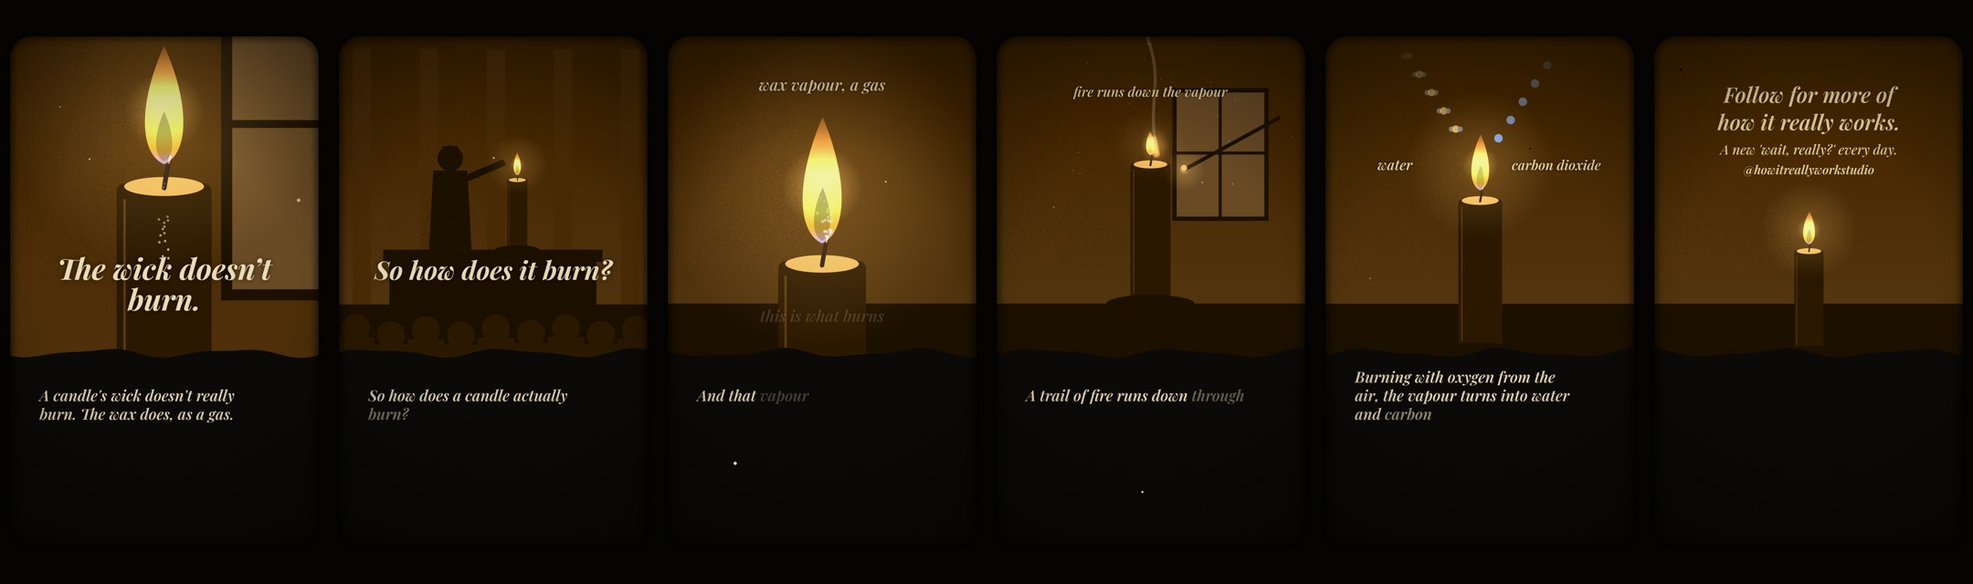
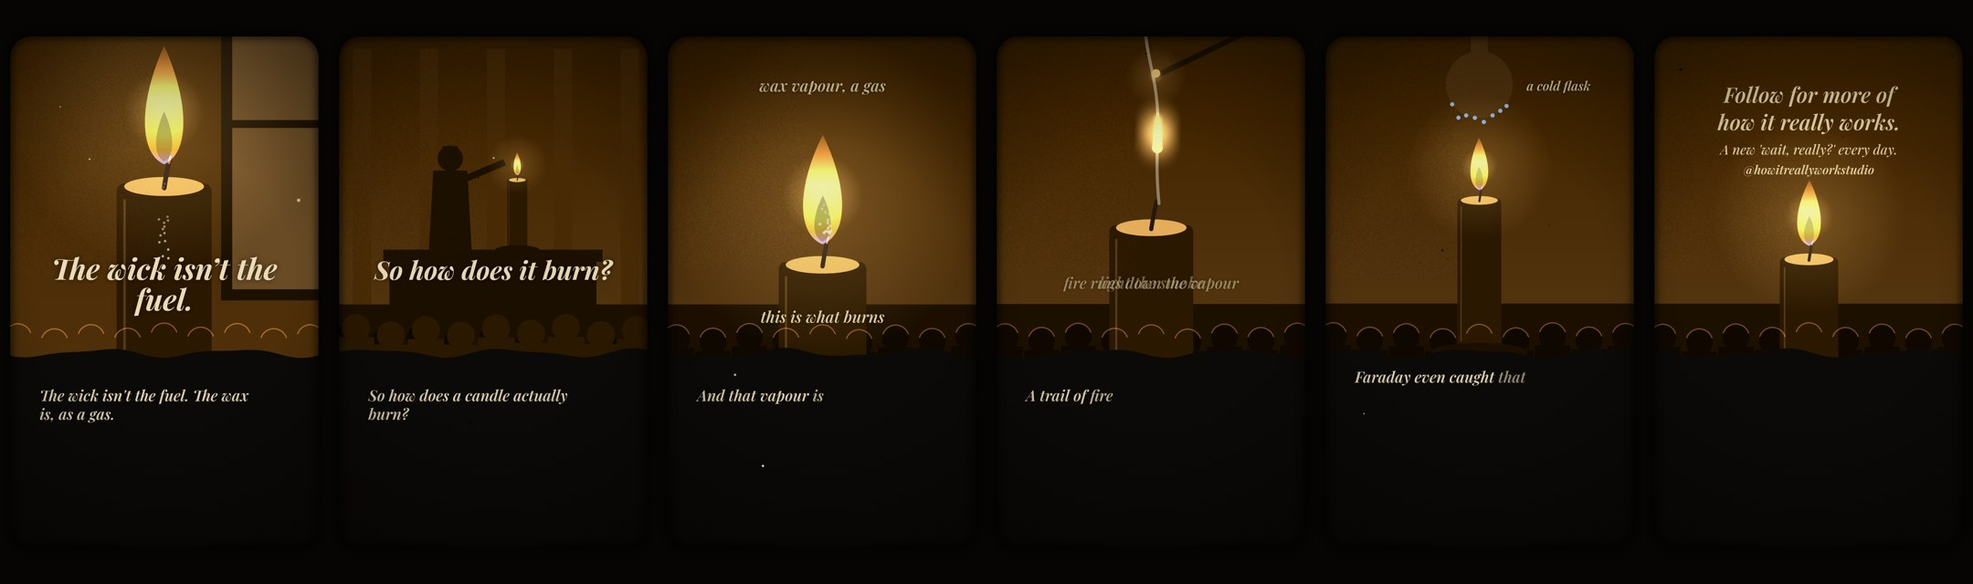
leafcolor + candle: review changes (new hooks, big-leaf frame 0, pigment strip, candle relight close-up at ~38-45 s as re-hook, audience row, bigger end flame)
Claude-Session: https://claude.ai/code/session_01BPYB3kfiSbE99jg4BSb2LU

diff --git a/reels/t_candle.js b/reels/t_candle.js
@@ -48,7 +48,10 @@ function room(t, o = {}) {
   const gr = g.createLinearGradient(0, 0, 0, 1200); gr.addColorStop(0, '#2a241e'); gr.addColorStop(1, '#4a4034'); g.fillStyle = gr; g.fillRect(-100, -100, W + 200, H + 200);
   if (o.window !== false) { g.fillStyle = '#5e5244'; g.fillRect(620, 300, 300, 420); F.stars(t, 30, 700); g.fillStyle = INK; g.fillRect(612, 292, 316, 14); g.fillRect(612, 714, 316, 14); g.fillRect(612, 292, 14, 436); g.fillRect(914, 292, 14, 436); g.fillRect(764, 292, 10, 436); g.fillRect(612, 500, 316, 10); }
   g.fillStyle = INK; g.fillRect(-100, 1000, W + 200, 400);
+  // the lecture-hall audience along the table front (silhouettes; rim-lit in the light pass)
+  for (let i = 0; i < 9; i++) { const hx = 60 + i * 120, hy = 1110 + (i % 2) * 14 + 3 * Math.sin(t * 2 + i); g.fillStyle = '#0c0a08'; g.beginPath(); g.arc(hx, hy, 44, 0, TAU); g.fill(); g.fillRect(hx - 58, hy + 30, 116, 120); }
 }
+function rims(t) { g.save(); g.globalCompositeOperation = 'lighter'; g.strokeStyle = 'rgba(255,170,90,.38)'; g.lineWidth = 4; for (let i = 0; i < 9; i++) { const hx = 60 + i * 120, hy = 1110 + (i % 2) * 14 + 3 * Math.sin(t * 2 + i); g.beginPath(); g.arc(hx, hy, 44, Math.PI * 1.1, Math.PI * 1.9); g.stroke(); } g.restore(); }
 function label(txt, x, y, k, size = 46) { if (k <= 0) return; g.save(); g.font = `italic 600 ${size}px "Playfair Display"`; g.textAlign = 'center'; g.fillStyle = CREAM; g.globalAlpha = clamp(k); g.shadowColor = 'rgba(0,0,0,.7)'; g.shadowBlur = 10; g.fillText(txt, x, y); g.restore(); }
 function leader(x0, y0, x1, y1, k) { if (k <= 0) return; g.save(); g.strokeStyle = 'rgba(240,220,168,.8)'; g.lineWidth = 2.5; g.globalAlpha = clamp(k); g.beginPath(); g.moveTo(x0, y0); g.lineTo(lerp(x0, x1, clamp(k)), lerp(y0, y1, clamp(k))); g.stroke(); g.restore(); }
 function bigCap(str, a, size = 100, y = 420) { if (a <= 0) return; g.save(); g.textAlign = 'center'; g.font = `italic 700 ${size}px "Playfair Display"`; g.globalAlpha = a; g.shadowColor = 'rgba(0,0,0,.6)'; g.shadowBlur = 18; g.fillStyle = '#f6e6bf';
@@ -56,8 +59,8 @@ function bigCap(str, a, size = 100, y = 420) { if (a <= 0) return; g.save(); g.t
 function arrowUp(x, y0, y1, k, col = 'rgba(255,214,140,.95)') { if (k <= 0) return; const yy = lerp(y0, y1, clamp(k)); g.save(); g.strokeStyle = col; g.fillStyle = col; g.lineWidth = 6; g.beginPath(); g.moveTo(x, y0); g.lineTo(x, yy + 10); g.stroke(); g.beginPath(); g.moveTo(x - 16, yy + 18); g.lineTo(x + 16, yy + 18); g.lineTo(x, yy - 8); g.fill(); g.restore(); }
 
 // ---------- shots ----------
-const SH = [[0, s(1) + 1.0, 'hook'], [s(1) + 1.0, s(3) - .15, 'faraday'], [s(3) - .15, s(5) - .15, 'melt'], [s(5) - .15, s(7) - .15, 'vapour'], [s(7) - .15, s(9) - .15, 'relight'],
-  [s(9) - .15, s(11) - .15, 'zones'], [s(11) - .15, s(13) - .15, 'water'], [s(13) - .15, s(14) - .15, 'pump'], [s(14) - .15, s(15) - .15, 'question'], [s(15) - .15, TL.total + 1, 'end']];
+const SH = [[0, s(1) + 1.0, 'hook'], [s(1) + 1.0, s(3) - .15, 'faraday'], [s(3) - .15, s(5) - .15, 'melt'], [s(5) - .15, s(7) - .15, 'vapour'], [s(7) - .15, s(9) - .15, 'zones'],
+  [s(9) - .15, s(11) - .15, 'relight'], [s(11) - .15, s(13) - .15, 'water'], [s(13) - .15, s(14) - .15, 'pump'], [s(14) - .15, s(15) - .15, 'question'], [s(15) - .15, TL.total + 1, 'end']];
 const shotAt = t => SH.find(x => t >= x[0] && t < x[1]) || SH[SH.length - 1];
 
 const SCN = {
@@ -102,23 +105,25 @@ const SCN = {
       const bk = ss(R(t, s(6) + .3, .6)); label('this is what burns', 540, 1060, bk, 52); };
   },
   relight(t) { // blow it out, light the smoke: a trail of fire runs down and relights the wick
-    room(t); const C = candle(540, 1000, 1.1);
-    const out = ss(R(t, s(7) + .5, .3)), m = ss(R(t, s(7) + 1.8, 1.2)), run = ss(R(t, s(8) + .2, 1.2)), rel = ss(R(t, s(8) + 1.3, .4));
-    // a taper (long match) coming in from the right
-    const tx = lerp(1100, 650, m), ty = 560; g.save(); g.translate(tx, ty); g.rotate(-.5); g.fillStyle = INK; g.fillRect(0, -6, 360, 12); g.restore();
+    room(t, { window: false }); const C = candle(540, 1660, 2.3, { h: 400 });   // big close-up: the wow
+    const out = ss(R(t, s(9) + 1.0, .3)), m = ss(R(t, s(9) + 2.0, 1.0)), run = ss(R(t, s(10) + .1, 1.4)), rel = ss(R(t, s(10) + 1.4, .4));
+    const sx = (u) => smokeAt(C.x + 18, C.top - 70, t, u, 700), [px, py] = sx(.6);
+    // a taper (long match) coming in from the right to the smoke, high above the wick
+    const tx = lerp(1150, px + 10, m), ty = py; g.save(); g.translate(tx, ty); g.rotate(-.45); g.fillStyle = INK; g.fillRect(0, -9, 420, 18); g.restore();
     return () => { flame(C, t, { k: Math.max(1 - out, rel) });
-      const sa = out * (1 - rel); smoke(C.x + 8, C.top - 30, t, sa, 520);
-      if (m > 0) { F.glow(tx, ty, 14, .9); F.circ(tx, ty - 6, 10, '#ffd27a'); }
-      if (run > 0 && rel < 1) for (let i = 0; i < 6; i++) { const u = clamp(1 - run + i * .02); const [fx, fy] = smokeAt(C.x + 8, C.top - 30, t, lerp(.55, 0, run) + i * .02, 520); F.circ(fx, fy, 12 - i, '#ffb050', 1 - rel); F.glow(fx, fy, 10, (1 - rel) * .8); }
-      label('blow it out', 380, 320, ss(R(t, s(7) + .3, .5)) * (1 - m));
-      label('light the smoke', 380, 320, m * (1 - run));
-      label('fire runs down the vapour', 540, 320, run, 44); };
+      const sa = out * (1 - rel); smoke(C.x + 18, C.top - 70, t, sa, 700);
+      if (m > 0) { F.glow(tx, ty, 20, .9); F.circ(tx, ty - 8, 14, '#ffd27a'); }
+      if (run > 0 && rel < 1) for (let i = 0; i < 8; i++) { const [fx, fy] = sx(clamp(lerp(.6, 0, run) + i * .02)); F.circ(fx, fy, 18 - i * 1.5, '#ffb050', 1 - rel); F.glow(fx, fy, 16, (1 - rel) * .9); }
+      label('watch this', 540, 950, ss(R(t, s(9) + .1, .4)) * (1 - ss(R(t, s(9) + .8, .2))), 56);
+      label('blow it out', 540, 950, out * (1 - ss(R(t, s(9) + 1.9, .25))), 52);
+      label('light the smoke', 540, 950, ss(R(t, s(9) + 2.2, .3)) * (1 - ss(R(t, s(10) - .25, .25))), 52);
+      label('fire runs down the vapour', 540, 950, ss(R(t, s(10) + .1, .3)), 50); };
   },
   zones(t) {  // inside the flame: a dark core of unburnt vapour; the yellow glow is solid carbon specks so hot they shine
     room(t, { window: false }); const C = candle(540, 1980, 3.0, { h: 340 });
     return () => { flame(C, t, { k: 1.2, zones: 1, cut: 1 });
-      const ck = ss(R(t, s(9) + .4, .6)); label('dark core', 300, 700, ck); leader(380, 690, 520, C.top - 140, ck); label('unburnt vapour', 300, 760, ss(R(t, s(9) + 1.6, .6)), 40);
-      const yk = ss(R(t, s(10) + .6, .6)); if (yk > 0) for (let i = 0; i < 40; i++) { const u = (t * .5 + hash(i * 5.3)) % 1, a = hash(i * 2.1) * TAU, rr = 40 + 50 * hash(i * 7); const x = 540 + Math.cos(a) * rr * .7, y = C.top - 300 + Math.sin(a) * rr * 1.6 - u * 40; F.circ(x, y, 3 + 2 * hash(i), '#fff2c0', yk * (.4 + .6 * hash(i + Math.floor(t * 8)))); }
+      const ck = ss(R(t, s(7) + .4, .6)); label('dark core', 300, 700, ck); leader(380, 690, 520, C.top - 140, ck); label('unburnt vapour', 300, 760, ss(R(t, s(7) + 1.6, .6)), 40);
+      const yk = ss(R(t, s(8) + .6, .6)); if (yk > 0) for (let i = 0; i < 40; i++) { const u = (t * .5 + hash(i * 5.3)) % 1, a = hash(i * 2.1) * TAU, rr = 40 + 50 * hash(i * 7); const x = 540 + Math.cos(a) * rr * .7, y = C.top - 300 + Math.sin(a) * rr * 1.6 - u * 40; F.circ(x, y, 3 + 2 * hash(i), '#fff2c0', yk * (.4 + .6 * hash(i + Math.floor(t * 8)))); }
       label('glowing carbon specks', 540, 300, yk, 50); };
   },
   water(t) {  // the products: water and carbon dioxide; Faraday catches the water on a cold vessel above the flame
@@ -146,7 +151,7 @@ const SCN = {
     room(t); const C = candle(540, 1000, 1.1);
     return () => { flame(C, t, { k: 0 }); smoke(C.x + 8, C.top - 30, t, .9, 520); bigCap('Through the smoke?', ss(R(t, s(14) + .2, .5)), 80, 360); label('yes', 380, 560, ss(R(t, s(14) + 1.2, .4)), 64); label('no', 700, 560, ss(R(t, s(14) + 1.4, .4)), 64); };
   },
-  end(t) { room(t, { window: false }); const C = candle(540, 1160, .8);
+  end(t) { room(t, { window: false }); const C = candle(540, 1520, 1.6, { h: 420 });
     return () => { flame(C, t, { k: 1 }); const k = ss(R(t, s(15) - .1, .7));
       g.save(); g.textAlign = 'center'; g.font = 'italic 600 70px "Playfair Display"'; g.fillStyle = CREAM; g.globalAlpha = k; g.fillText('Follow for more of', 540, 340); g.globalAlpha = ss(R(t, s(15) + .5, .7)); g.fillText('how it really works.', 540, 430);
       g.font = 'italic 500 44px "Playfair Display"'; g.globalAlpha = ss(R(t, s(15) + 1.0, .7)); g.fillText("A new 'wait, really?' every day.", 540, 510); g.font = 'italic 600 40px "Playfair Display"'; g.globalAlpha = ss(R(t, s(15) + 1.3, .7)); g.fillText('@howitreallyworkstudio', 540, 575); g.restore(); };
@@ -158,10 +163,10 @@ function scene(t) {
   const [a, b, name] = shotAt(t), [wx, wy] = F.weave(t);
   g.save(); g.translate(wx, wy); const glowPass = SCN[name](t); g.restore();
   F.grade(0);
-  g.save(); g.translate(wx, wy); glowPass(); g.restore();
+  g.save(); g.translate(wx, wy); glowPass(); if (name !== 'faraday') rims(t); g.restore();
   const fi = name === 'hook' ? 1 : ss(R(t, a, .3)), fo = 1 - ss(R(t, b - .3, .3)), dip = Math.min(fi, fo); if (dip < 1) { g.fillStyle = `rgba(0,0,0,${1 - dip})`; g.fillRect(0, 0, W, H); }
   // burned-in hook line (top third), then the question
-  if (t < s(2) - .2) { const one = t < s(1) - .05; bigCap(one ? 'The wick doesn’t burn.' : 'So how does it burn?', one ? 1 : ss(R(t, s(1) - .05, .25)), one ? 96 : 84, 920); }
+  if (t < s(2) - .2) { const one = t < s(1) - .05; bigCap(one ? 'The wick isn’t the fuel.' : 'So how does it burn?', one ? 1 : ss(R(t, s(1) - .05, .25)), one ? 96 : 84, 920); }
   // foreground wavy black band + italic caption written in word by word (inside y 1180-1400)
   F.band(t, 1160, { amp: 12 });
   let ci = 0; PH.forEach((p, k) => { if (t >= p.start - .1) ci = k; });

diff --git a/reels/t_leafcolor.js b/reels/t_leafcolor.js
@@ -85,18 +85,20 @@ function pigments(cx, cy, R, st, t, seed = 1) {
 
 // ---------------- scenes ----------------
 const S = [];
-// A (p0-p1): ink mountains under a pale moon, a maple branch in red and gold; the question in a vertical column; the first leaves fall
+// A (p0-p1): frame 0 is one big leaf inside an ensō, green already draining to reveal gold; at the question the ink landscape comes in:
+// mountains under a pale moon, a maple branch in red and gold, the question in a vertical column, the first leaves falling
 S.push([0, T(2), t => {
-  land(t, { mx: 190, my: 760, mr: 95, o: .25 });
-  const st = { green: 0, red: .85, brown: 0 };
-  branch(t, st, { y: 300 });
-  falling(t, 7, { green: 0, red: .8, brown: 0 }, { a: ss(seg(t, r(1, -.3), r(1, .6))), y0: 260 });
-  // the hidden yellow: an ensō inset where the green sheet slides off a leaf (hook line, 1.2-3 s)
-  const k = seg(t, .2, 1.0), sl = ss(seg(t, 1.4, 2.6));
-  enso(g, 760, 920, 160, k, { seed: 2 });
-  if (k > .4) { g.save(); g.globalAlpha *= seg(k, .4, 1); leaf(760, 925, 105, .1, { green: 1 - sl, red: 0, brown: 0 }); g.restore(); }
-  serif(g, 'yellow, all along', 700, 715, { size: 54, w: 700, a: seg(t, 2.4, 3.0) * (1 - seg(t, T(1) + 1.2, T(1) + 1.6)) });
-  column(g, ['WHY DO', 'LEAVES', 'TURN?'], 400, 320, seg(t, T(1) - .1, T(1) + 1.0), { size: 84, gap: 1.05, seal: 'fall' });
+  const k = ss(seg(t, T(1) - .2, T(1) + .7));
+  land(t, { mx: 190, my: 760, mr: 95, o: .25, birdsA: k });
+  if (k > 0) { g.save(); g.globalAlpha *= k; branch(t, { green: 0, red: .85, brown: 0 }, { y: 300 });
+    falling(t, 7, { green: 0, red: .8, brown: 0 }, { a: ss(seg(t, T(1), T(1) + .8)), y0: 260 });
+    column(g, ['WHY DO', 'LEAVES', 'TURN?'], 400, 320, seg(t, T(1) + .1, T(1) + 1.1), { size: 84, gap: 1.05, seal: 'fall' }); g.restore(); }
+  if (k < 1) { g.save(); g.globalAlpha *= 1 - k; g.drawImage(paper(), 0, 0);
+    const gr = 1 - ss(seg(t, .15, 2.6));
+    enso(g, 540, 770, 390, 1, { lw: 20, seed: 4 });
+    leaf(540 + 6 * Math.sin(t * 1.3), 795, 290, .04 * Math.sin(t * .9), { green: gr, red: 0, brown: 0 });
+    serif(g, 'gold, all along', 540, 300, { size: 64, w: 700, a: seg(t, 1.6, 2.0) });
+    g.restore(); }
 }]);
 // B (p2-p5): one big leaf: green all summer (sunlight -> food), nights lengthen, chlorophyll breaks down, gold revealed
 S.push([T(2) - .5, T(6) - .1, t => {
@@ -147,7 +149,7 @@ S.push([T(6) - .5, T(11) - .1, t => {
   // p9: sunshine + sugar -> red
   const sk = seg(t, T(9), r(9, .8)) * (1 - seg(t, E(10) - .3, E(10) + .2));
   sun(170, 420, 48, sk); rays(170, 420, 1, 62, 300, sk);
-  serif(g, 'sun + sugar = red', 560, 300, { size: 58, w: 700, a: seg(t, r(9, 1.4), r(9, 2.0)) * (1 - seg(t, T(10) - .2, T(10) + .2)) });
+  serif(g, 'sun + sugar = red', 560, 300, { size: 58, w: 700, a: seg(t, r(9, .5), r(9, .8)) * (1 - seg(t, T(10) - .2, T(10) + .2)) });
   // p10: like a sunscreen: rays stop at the red leaf (dashed rays end at the edge)
   const sc = seg(t, T(10), r(10, .8));
   if (sc > 0) { g.save(); g.globalAlpha *= sc; g.strokeStyle = 'rgba(217,118,62,.9)'; g.lineWidth = 6; g.setLineDash([18, 12]); [[-60], [0], [60]].forEach(([dx], i) => { g.beginPath(); g.moveTo(230 + dx, 470); g.lineTo(400 + dx * .5, 570 + i * 20); g.stroke(); }); g.restore();
@@ -174,7 +176,7 @@ S.push([T(12) - .5, T(14) - .1, t => {
   leaf(540 + 60 * Math.sin(drop * 5) * drop, 600 + drop * 520, 170 * (1 - .4 * drop), drop * 2.5, st, { stem: .6 });
   serif(g, 'tannins', 540, 300, { size: 66, w: 700, a: seg(t, r(12, .5), r(12, 1.1)) * (1 - seg(t, T(13) - .2, T(13) + .2)) });
   serif(g, 'brown comes last', 540, 970, { size: 50, w: 700, a: seg(t, r(12, 1.8), r(12, 2.4)) * (1 - seg(t, T(13) - .2, T(13) + .2)) });
-  serif(g, 'the leaf lets go', 540, 300, { size: 62, w: 700, a: seg(t, r(13, 1.2), r(13, 1.8)) });
+  serif(g, 'the leaf lets go', 540, 300, { size: 62, w: 700, a: seg(t, r(13, .7), r(13, 1.0)) });
   falling(t, 6, { green: 0, red: .5, brown: .6 }, { a: seg(t, T(13), r(13, 1)), y0: 280 });
 }]);
 // F (p14): payoff: three ensō, green leaving / gold revealed / red made
@@ -210,7 +212,7 @@ function subtitle(cap, a) {
   const toks = []; parse(cap).forEach(p => p.t.split(/\s+/).filter(Boolean).forEach(w => toks.push({ w, b: p.b })));
   const m = tk => { g.font = `italic ${tk.b ? 700 : 500} ${SZ}px "Cormorant Garamond"`; return g.measureText(tk.w + ' ').width; };
   const lines = [[]]; let cw = 0; for (const tk of toks) { const w = m(tk); if (cw + w > maxW && lines[lines.length - 1].length) { lines.push([]); cw = 0; } lines[lines.length - 1].push(tk); cw += w; }
-  const lh = 60, top = 1290 - (lines.length - 1) * lh / 2;
+  const lh = 60, top = 1262 - (lines.length - 1) * lh / 2;
   g.fillStyle = 'rgba(239,232,216,.78)'; g.beginPath(); g.roundRect(150, top - 50, 780, (lines.length - 1) * lh + 100, 30); g.fill();
   lines.forEach((ln, i) => { const tw = ln.reduce((s, tk) => s + m(tk), 0); let x = W / 2 - tw / 2; if (i === 0) { g.fillStyle = VERM; g.fillRect(x - 30, top - 7, 13, 13); }
     for (const tk of ln) { g.font = `italic ${tk.b ? 700 : 500} ${SZ}px "Cormorant Garamond"`; g.lineJoin = 'round'; g.strokeStyle = 'rgba(239,232,216,.92)'; g.lineWidth = 10; g.strokeText(tk.w, x, top + i * lh);
@@ -222,8 +224,20 @@ function sub(t) {
   if (cur === PH.length - 1) return; const p = PH[cur], nx = PH[cur + 1].start, a = (cur === 0 ? 1 : seg(t, p.start - .05, p.start + .15)) * (1 - seg(t, nx - .25, nx - .05));
   subtitle(p.cap, a);
 }
+// pigment strip (the three layers' levels across the whole reel), under the caption in y 1395-1435
+function pigStrip(t) {
+  const hook = t < T(2) - .3;
+  const chl = hook ? 1 - ss(seg(t, .15, 2.6)) : 1 - ss(seg(t, T(3) + .5, T(4) + 1)) + ss(seg(t, T(14) + .1, T(14) + 1.2)) * 0;
+  const gold = 1 - .6 * ss(seg(t, T(12), T(13))) + .6 * ss(seg(t, T(14) - .3, T(14) + .3));
+  const red = hook ? 0 : ss(seg(t, T(7) + .8, T(9) + 2)) * (1 - .7 * ss(seg(t, T(12), T(13)))) + .7 * ss(seg(t, T(14) - .3, T(14) + .3)) * ss(seg(t, T(7), T(9)));
+  g.save(); g.fillStyle = 'rgba(239,232,216,.85)'; g.strokeStyle = ink(.6); g.lineWidth = 2; g.beginPath(); g.roundRect(160, 1392, 760, 46, 22); g.fill(); g.stroke();
+  [['green', GREEN, chl], ['gold', GOLD, gold], ['red', RED, red]].forEach(([lab, col, v], i) => { const x = 190 + i * 245;
+    g.font = 'italic 700 30px "Cormorant Garamond"'; g.textBaseline = 'middle'; g.textAlign = 'left'; g.fillStyle = ink(.85); g.fillText(lab, x, 1415);
+    g.fillStyle = 'rgba(30,28,30,.12)'; g.fillRect(x + 78, 1407, 130, 16); g.fillStyle = col; g.fillRect(x + 78, 1407, 130 * clamp(v), 16); });
+  g.restore();
+}
 window.DUR = TL.total;
-window.seek = t => { scene(t); sub(t); const f = Math.min(1, (TL.total - t) / .35); if (f < 1) { g.save(); g.globalAlpha = (1 - f) * .3; g.fillStyle = '#2a2622'; g.fillRect(0, 0, W, H); g.restore(); } };
+window.seek = t => { scene(t); sub(t); pigStrip(t); const f = Math.min(1, (TL.total - t) / .35); if (f < 1) { g.save(); g.globalAlpha = (1 - f) * .3; g.fillStyle = '#2a2622'; g.fillRect(0, 0, W, H); g.restore(); } };
 window.thumb = () => { const t = 3; land(t, { mx: 280, my: 700, mr: 130, o: .3, birdsA: 0 }); branch(t, { green: 0, red: .9, brown: 0 }, { y: 760, s: 1.25 });
   leaf(300, 1150, 170, .1, { green: .35, red: 0, brown: 0 });
   serif(g, 'WHY DO LEAVES', 540, 380, { size: 104, w: 700, ls: 3 }); serif(g, 'CHANGE COLOR?', 540, 500, { size: 104, w: 700, ls: 3 }); sealMark(g, 900, 590, 64, 'fall'); };

diff --git a/reels/tl_leafcolor.js b/reels/tl_leafcolor.js
@@ -1,1 +1,1 @@
-window.TL={"total": 71.302, "p": [{"i": 0, "cap": "Those red and gold leaves? The **yellow** was hiding in there **all summer.**", "start": 0.35, "end": 4.11}, {"i": 1, "cap": "So **why do leaves change color** in the fall?", "start": 4.81, "end": 6.802}, {"i": 2, "cap": "All summer, leaves are full of **chlorophyll,** the green pigment that turns sunlight into food.", "start": 7.502, "end": 12.612}, {"i": 3, "cap": "But as **nights get longer,** trees stop making it, and the **green breaks down.**", "start": 12.992, "end": 17.084}, {"i": 4, "cap": "Underneath are yellow and orange pigments called **carotenoids.** They were there **all along.**", "start": 17.784, "end": 22.576}, {"i": 5, "cap": "The green was just **covering them up.**", "start": 22.956, "end": 24.6}, {"i": 6, "cap": "Here's the twist: the **reds** weren't hiding.", "start": 25.3, "end": 27.459}, {"i": 7, "cap": "Reds and purples come from **anthocyanins,** and most are **made fresh** in the fall.", "start": 28.159, "end": 32.51}, {"i": 8, "cap": "A **cork-like layer** grows across the leaf stem, and **sugar** gets trapped inside the leaf.", "start": 32.89, "end": 37.615}, {"i": 9, "cap": "Bright **sunshine** and that trapped **sugar** help make the red.", "start": 37.995, "end": 40.881}, {"i": 10, "cap": "Scientists think it may work like a **sunscreen** for the fading leaf.", "start": 41.261, "end": 44.774}, {"i": 11, "cap": "That's why weather matters. **Warm, sunny days** and **cool nights** bring the brightest reds.", "start": 45.474, "end": 50.516}, {"i": 12, "cap": "**Brown** comes last: **tannins,** left behind when the other colors are gone.", "start": 51.216, "end": 55.319}, {"i": 13, "cap": "Then that cork-like layer **seals off,** and the leaf **lets go.**", "start": 55.699, "end": 58.837}, {"i": 14, "cap": "So fall color is **green leaving,** gold **revealed,** and red **freshly made.**", "start": 59.536, "end": 63.763}, {"i": 15, "cap": "Which do you love more, **red or gold?** One word.", "start": 64.463, "end": 67.076}, {"i": 16, "cap": "Follow for more of **how it really works.**", "start": 67.456, "end": 69.322}]};
+window.TL={"total": 70.346, "p": [{"i": 0, "cap": "That **gold** in fall leaves was hiding there **all summer.**", "start": 0.35, "end": 3.154}, {"i": 1, "cap": "So **why do leaves change color** in the fall?", "start": 3.854, "end": 5.846}, {"i": 2, "cap": "All summer, leaves are full of **chlorophyll,** the green pigment that turns sunlight into food.", "start": 6.546, "end": 11.656}, {"i": 3, "cap": "But as **nights get longer,** trees stop making it, and the **green breaks down.**", "start": 12.036, "end": 16.128}, {"i": 4, "cap": "Underneath are yellow and orange pigments called **carotenoids.** They were there **all along.**", "start": 16.828, "end": 21.62}, {"i": 5, "cap": "The green was just **covering them up.**", "start": 22.0, "end": 23.644}, {"i": 6, "cap": "Here's the twist: the **reds** weren't hiding.", "start": 24.344, "end": 26.503}, {"i": 7, "cap": "Reds and purples come from **anthocyanins,** and most are **made fresh** in the fall.", "start": 27.203, "end": 31.554}, {"i": 8, "cap": "A **cork-like layer** grows across the leaf stem, and **sugar** gets trapped inside the leaf.", "start": 31.934, "end": 36.659}, {"i": 9, "cap": "Bright **sunshine** and that trapped **sugar** help make the red.", "start": 37.039, "end": 39.925}, {"i": 10, "cap": "Scientists think it may work like a **sunscreen** for the fading leaf.", "start": 40.305, "end": 43.818}, {"i": 11, "cap": "That's why weather matters. **Warm, sunny days** and **cool nights** bring the brightest reds.", "start": 44.518, "end": 49.56}, {"i": 12, "cap": "**Brown** comes last: **tannins,** left behind when the other colors are gone.", "start": 50.26, "end": 54.363}, {"i": 13, "cap": "Then that cork-like layer **seals off,** and the leaf **lets go.**", "start": 54.743, "end": 57.88}, {"i": 14, "cap": "So fall color is **green leaving,** gold **revealed,** and red **freshly made.**", "start": 58.58, "end": 62.806}, {"i": 15, "cap": "Which do you love more, **red or gold?** One word.", "start": 63.507, "end": 66.12}, {"i": 16, "cap": "Follow for more of **how it really works.**", "start": 66.5, "end": 68.366}]};

diff --git a/reels/tl_candle.js b/reels/tl_candle.js
@@ -1,1 +1,1 @@
-window.TL={"total": 70.885, "p": [{"i": 0, "cap": "A candle's wick doesn't really burn. The **wax** does, as a **gas.**", "start": 0.35, "end": 3.761}, {"i": 1, "cap": "So **how does a candle actually burn?**", "start": 4.461, "end": 6.283}, {"i": 2, "cap": "In **1860,** Michael **Faraday** asked the same question, in a famous lecture for young people.", "start": 6.983, "end": 12.769}, {"i": 3, "cap": "First, the flame's heat **melts** the wax at the top into a little **cup** of liquid.", "start": 13.469, "end": 17.832}, {"i": 4, "cap": "That liquid **climbs the wick,** the way water climbs up a **towel.**", "start": 18.212, "end": 21.445}, {"i": 5, "cap": "Near the flame, the hot liquid turns into **wax vapour,** a gas.", "start": 22.145, "end": 25.951}, {"i": 6, "cap": "And that **vapour** is what actually **burns.**", "start": 26.331, "end": 28.458}, {"i": 7, "cap": "Faraday showed it: blow a candle out, then **light the smoke.**", "start": 29.158, "end": 32.311}, {"i": 8, "cap": "A **trail of fire** runs down through the air and **relights the wick.**", "start": 32.691, "end": 36.146}, {"i": 9, "cap": "Inside the flame is a **dark core:** vapour that **hasn't burned yet.**", "start": 36.846, "end": 40.562}, {"i": 10, "cap": "The bright **yellow** glow? Tiny specks of solid **carbon,** so hot they **shine.**", "start": 40.942, "end": 45.233}, {"i": 11, "cap": "Burning with oxygen from the air, the vapour turns into **water** and **carbon dioxide.**", "start": 45.933, "end": 51.126}, {"i": 12, "cap": "Faraday even caught that **water,** condensing on a **cold** surface above the flame.", "start": 51.826, "end": 56.388}, {"i": 13, "cap": "So a candle is a tiny **fuel pump:** the wick lifts wax, heat makes it a **gas,** and the gas **burns.**", "start": 57.088, "end": 62.966}, {"i": 14, "cap": "Have you ever relit a candle **through its smoke?** **Yes or no?**", "start": 63.666, "end": 66.66}, {"i": 15, "cap": "Follow for more of **how it really works.**", "start": 67.04, "end": 68.905}]};
+window.TL={"total": 70.748, "p": [{"i": 0, "cap": "The wick isn't the **fuel.** The **wax** is, as a **gas.**", "start": 0.35, "end": 3.075}, {"i": 1, "cap": "So **how does a candle actually burn?**", "start": 3.775, "end": 5.597}, {"i": 2, "cap": "In **1860,** Michael **Faraday** asked the same question, in a famous lecture for young people.", "start": 6.297, "end": 12.083}, {"i": 3, "cap": "First, the flame's heat **melts** the wax at the top into a little **cup** of liquid.", "start": 12.783, "end": 17.146}, {"i": 4, "cap": "That liquid **climbs the wick,** the way water climbs up a **towel.**", "start": 17.526, "end": 20.759}, {"i": 5, "cap": "Near the flame, the hot liquid turns into **wax vapour,** a gas.", "start": 21.459, "end": 25.265}, {"i": 6, "cap": "And that **vapour** is what actually **burns.**", "start": 25.645, "end": 27.772}, {"i": 7, "cap": "Inside the flame is a **dark core:** vapour that **hasn't burned yet.**", "start": 28.472, "end": 32.188}, {"i": 8, "cap": "The bright **yellow** glow? Tiny specks of solid **carbon,** so hot they **shine.**", "start": 32.568, "end": 36.859}, {"i": 9, "cap": "Now **watch this.** Faraday blew a candle out, then **lit the smoke.**", "start": 37.559, "end": 41.261}, {"i": 10, "cap": "A **trail of fire** runs down through the air and **relights the wick.**", "start": 41.641, "end": 45.095}, {"i": 11, "cap": "Burning with oxygen from the air, the vapour turns into **water** and **carbon dioxide.**", "start": 45.795, "end": 50.989}, {"i": 12, "cap": "Faraday even caught that **water,** condensing on a **cold** surface above the flame.", "start": 51.689, "end": 56.251}, {"i": 13, "cap": "So a candle is a tiny **fuel pump:** the wick lifts wax, heat makes it a **gas,** and the gas **burns.**", "start": 56.951, "end": 62.828}, {"i": 14, "cap": "Have you ever relit a candle **through its smoke?** **Yes or no?**", "start": 63.528, "end": 66.523}, {"i": 15, "cap": "Follow for more of **how it really works.**", "start": 66.903, "end": 68.768}]};

diff --git a/jobs/candle/sources_candle.md b/jobs/candle/sources_candle.md
@@ -3,7 +3,7 @@ Researched Oct 28 2026. Primary source: Michael Faraday, *The Chemical History o
 
 | Claim (script) | Source (Faraday, unless noted) |
 |---|---|
-| The wick doesn't really burn; the wax does, as a gas | Lecture II: "this is the vapour from the middle of the candle, produced by its own heat" (the vapour is the fuel that burns) |
+| The wick isn't the fuel; the wax is, as a gas | Lecture II: "this is the vapour from the middle of the candle, produced by its own heat" (the vapour is the fuel that burns) |
 | In 1860 Faraday asked the same question in a famous lecture for young people | The book is his 1860-61 Royal Institution Christmas lectures "to a juvenile auditory" (title page / preface) |
 | The flame's heat melts the wax at the top into a little cup of liquid | Lecture I (the cup formed at the top of the candle by the melting fuel) |
 | The liquid climbs the wick, like water up a towel | Lecture I: "the particles of melted tallow ascend the cotton and get to the top" (capillary attraction; Faraday's own comparison is a towel) |
@@ -15,6 +15,6 @@ Researched Oct 28 2026. Primary source: Michael Faraday, *The Chemical History o
 | Faraday caught the water condensing on a cold surface above the flame | Lecture III (a cold vessel held over the flame collects water) |
 
 ## Softened / careful wording
-1. "The wick doesn't really burn": the wick does char and slowly burn away; the script's point (Faraday's) is that the fuel burning in the flame is the wax vapour.
+1. Hook reworded after review to "The wick isn't the fuel": the wick does char and slowly burn at its tip; the fuel burning in the flame is the wax vapour (Faraday).
 2. "Carbon dioxide" for Faraday's "carbonic acid" (his 1860 name).
 3. No flame temperatures or zone colours beyond what Faraday describes (the blue base is shown in the art but not claimed in the voiceover).

diff --git a/jobs/candle/hooks_candle.md b/jobs/candle/hooks_candle.md
@@ -2,8 +2,8 @@
 
 Search question (spoken at 4.5 s, burned in as "So how does it burn?"): "How does a candle actually burn?"
 
-1. **[PICK]** "A candle's wick doesn't really burn. The wax does, as a gas." (12 words; pattern 7, myth correction). Frame 0: a big flame close-up on old sepia film, vapour specks rising from the wick, the burned-in line "The wick doesn't burn." At the question the camera pulls back to the candle by a night window.
+1. **[PICK]** "The wick isn't the fuel. The wax is, as a gas." (10 words; pattern 7, myth correction; main-session review: the wick does char at its tip, so it is not called non-burning). Frame 0: a big flame close-up on old sepia film, vapour specks rising from the wick, the burned-in line "The wick isn't the fuel." At the question the camera pulls back to the candle by a night window.
 2. "You can light a candle without touching the wick." (9 words; pattern 6; payoff is the smoke relight at 29 s).
 3. "Michael Faraday spent six lectures on one candle. Here's why." (10 words; pattern 2, curiosity).
 
-Storyboard stills (storyboard_candle.jpg): 0 s hook → 6 s but-turn (pull back; Faraday's lecture desk follows at 7 s) → 26.8 s re-hook "And that vapour is what actually burns" → 34.2 s wow (the smoke relight: fire runs down the vapour) → 49 s re-hook (water and carbon dioxide; Faraday's cold flask) → 69.5 s standard end card.
+Storyboard stills (storyboard_candle.jpg): 0 s hook → 6 s but-turn (pull back; Faraday's lecture desk follows at 7 s) → 26.5 s re-hook "And that vapour is what actually burns" → 37.6-45 s wow, now a big close-up and the second re-hook ("Now watch this.": the smoke relight, fire runs down the vapour) → 52.5 s Faraday's cold flask catching water → 69.5 s standard end card.

diff --git a/jobs/candle/caption_candle.md b/jobs/candle/caption_candle.md
@@ -1,4 +1,4 @@
-How does a candle actually burn? Not the wick: the wax, as a gas. The flame's heat melts a cup of wax at the top, the liquid climbs the wick like water up a towel, and near the flame it turns into vapour. That vapour is what burns. Michael Faraday showed it in his 1860 lectures for young people: blow a candle out, light the smoke, and a trail of fire runs down and relights the wick. The dark core of the flame is vapour that hasn't burned yet; the yellow glow is tiny specks of solid carbon, so hot they shine. It all ends up as water and carbon dioxide. Have you ever relit a candle through its smoke?
+How does a candle actually burn? The wick isn't the fuel: the wax is, as a gas. The flame's heat melts a cup of wax at the top, the liquid climbs the wick like water up a towel, and near the flame it turns into vapour. That vapour is what burns. Michael Faraday showed it in his 1860 lectures for young people: blow a candle out, light the smoke, and a trail of fire runs down and relights the wick. The dark core of the flame is vapour that hasn't burned yet; the yellow glow is tiny specks of solid carbon, so hot they shine. It all ends up as water and carbon dioxide. Have you ever relit a candle through its smoke?
 
 Source: Michael Faraday, The Chemical History of a Candle (Royal Institution lectures, 1860-61).
 

diff --git a/jobs/leafcolor/hooks_leafcolor.md b/jobs/leafcolor/hooks_leafcolor.md
@@ -2,7 +2,7 @@
 
 Search question (spoken at 4.8 s, brushed as a vertical column "WHY DO LEAVES TURN?" with a vermilion seal): "Why do leaves change color in the fall?"
 
-1. **[PICK]** "Those red and gold leaves? The yellow was hiding in there all summer." (13 words; pattern 6, a secret inside something everyday). Frame 0: ink mountains under a pale moon, a maple branch in red and gold; within 1 s an ensō inset draws on and its green leaf turns gold as the green slides off.
+1. **[PICK]** "That gold in fall leaves was hiding there all summer." (10 words; pattern 6, a secret inside something everyday; main-session wording). Frame 0: one big maple leaf filling the width inside an ensō, its green already draining to reveal gold ("gold, all along" at 1.6 s); the ink mountains, branch and question column come in at the question (3.9 s).
 2. "Fall doesn't paint leaves yellow. It just stops hiding it." (10 words; pattern 7, myth correction).
 3. "The red in fall leaves is brand new. The yellow is not." (12 words; pattern 2, contradiction).
 
